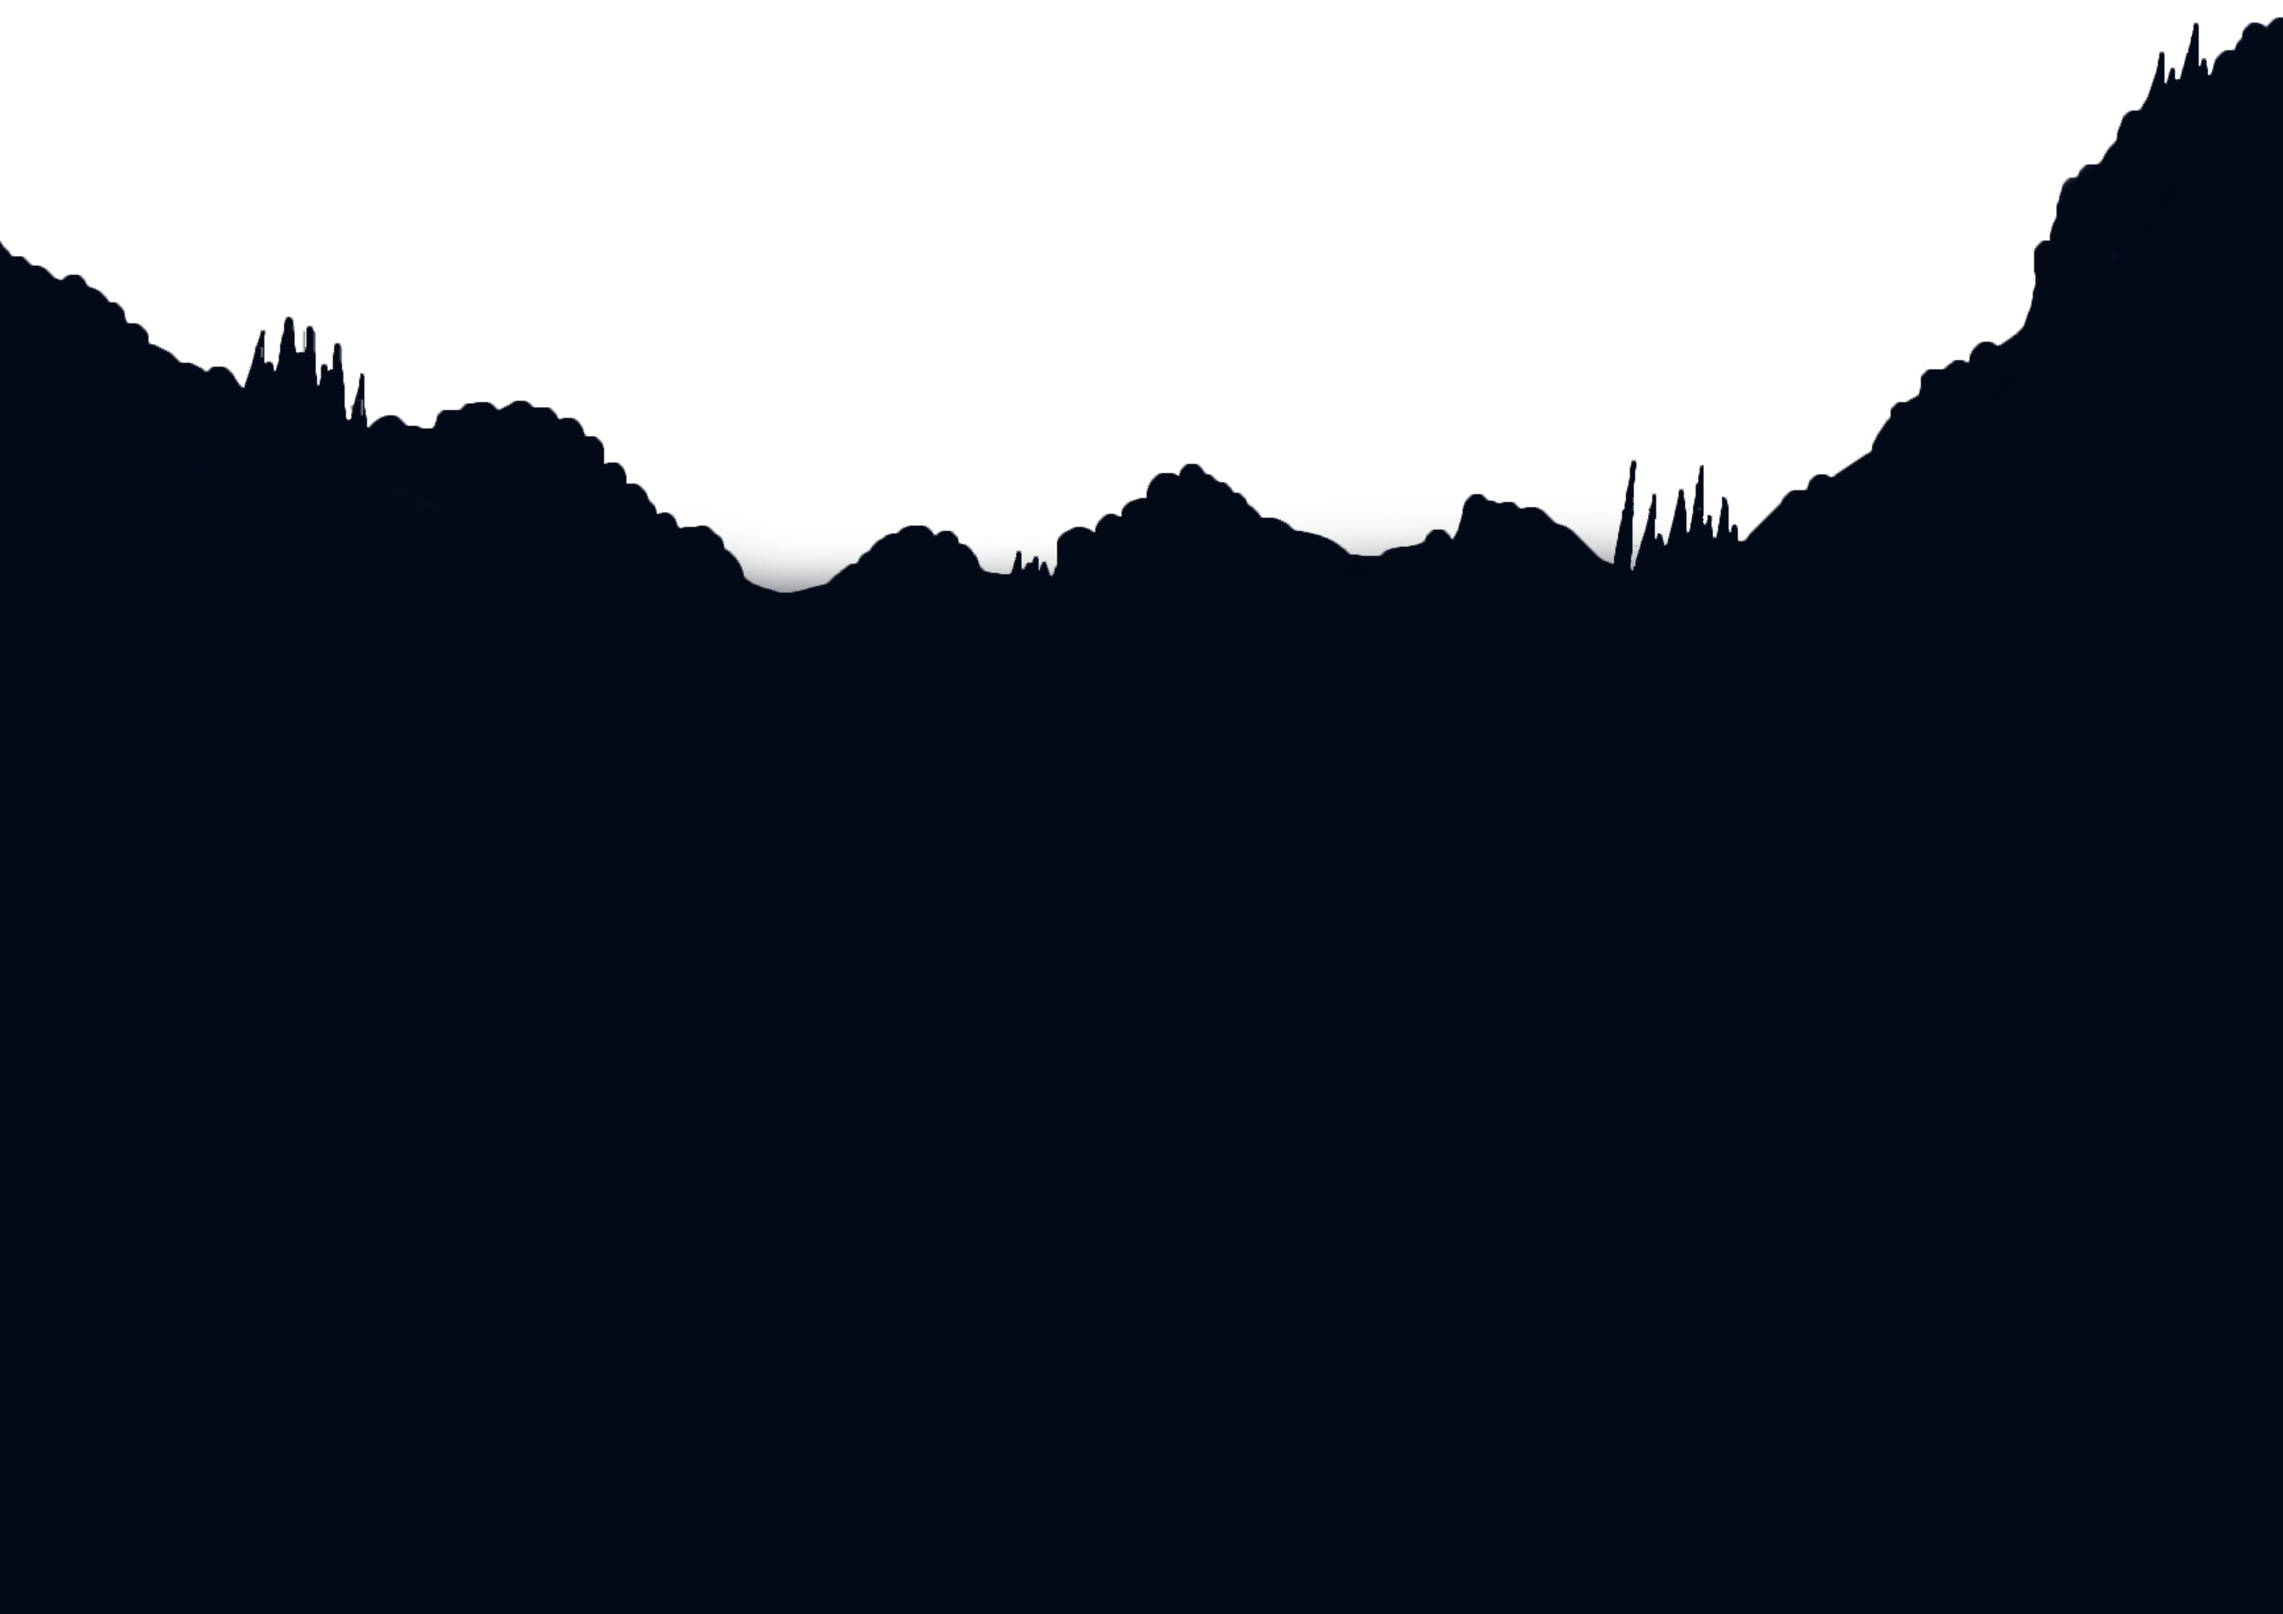
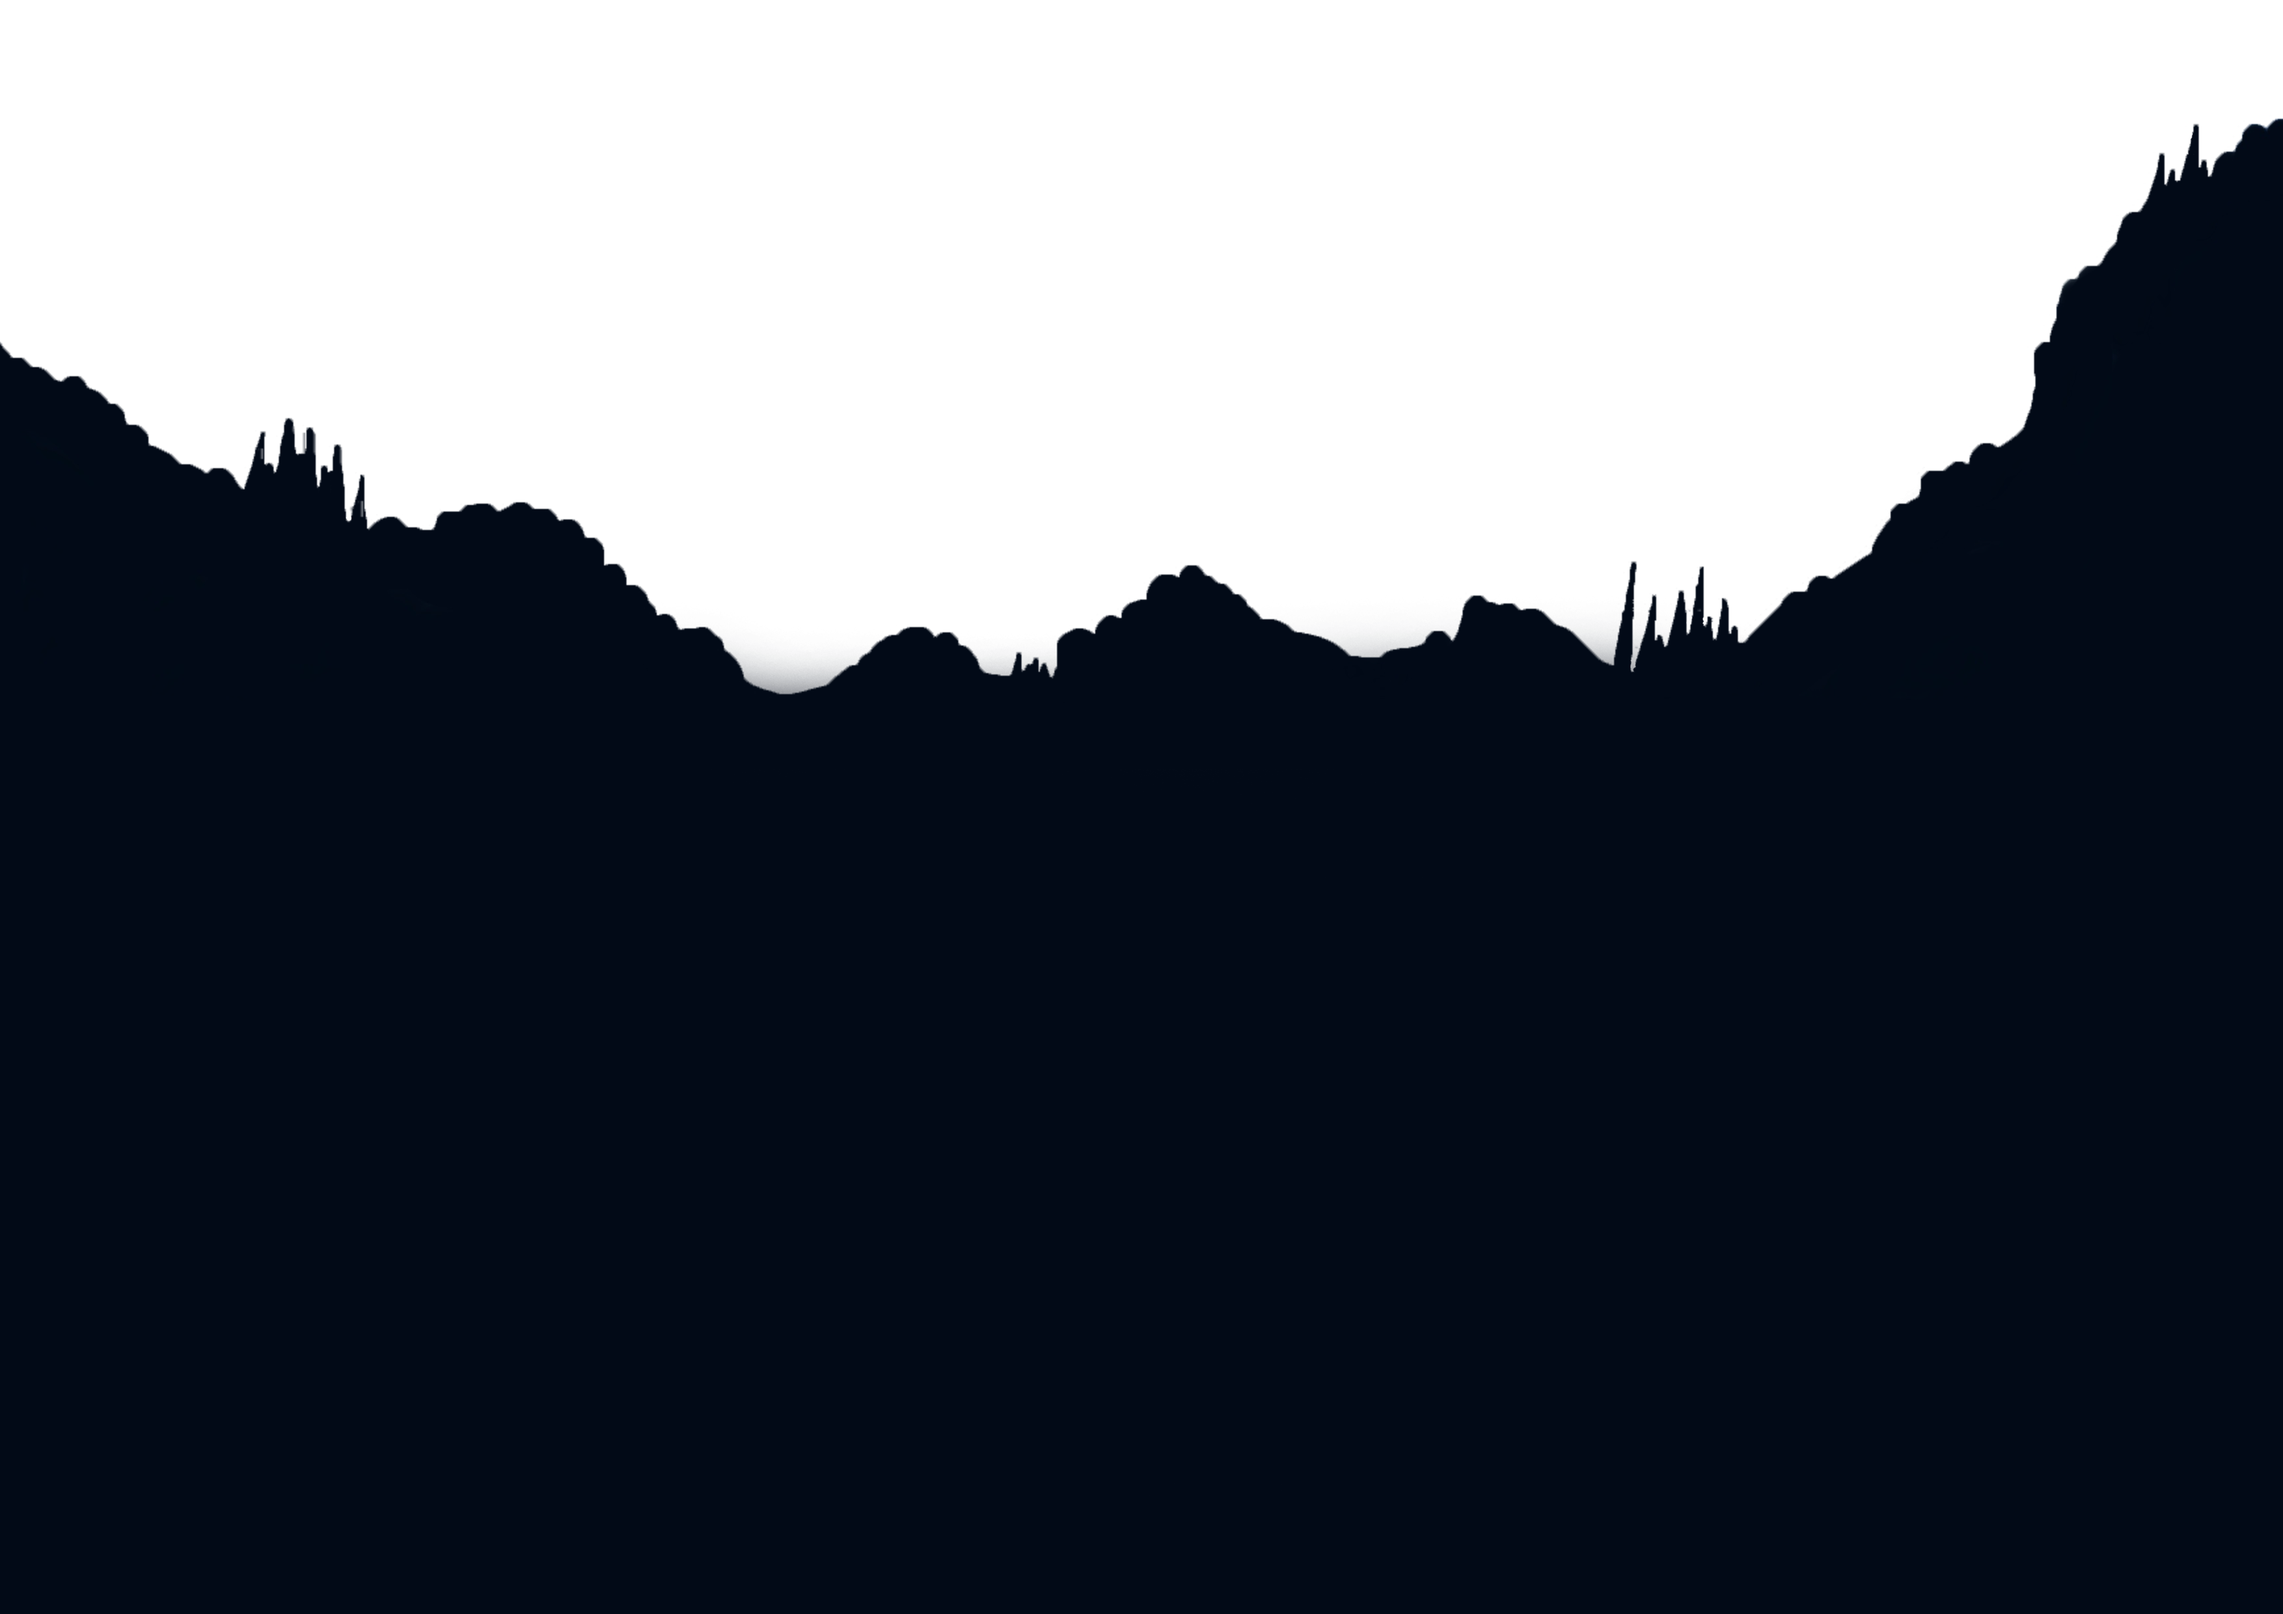
added new npm node. parallax now functional.

Changed region(s): [[0.0, 0.0, 1.0, 0.4347]]

diff --git a/portfolio-page/src/pages/Portfolio.jsx b/portfolio-page/src/pages/Portfolio.jsx
@@ -1,30 +1,30 @@
 import React from 'react'
-import { Parallax } from 'react-scroll-parallax';
+import { Parallax, ParallaxLayer } from '@react-spring/parallax'
 
 const Portfolio = () => {
 
   return (
   <>
-    <Parallax translateY={[-20, 20]}>
-        <img src="./images/6th.png" alt="" />
-    </Parallax>
-    <Parallax translateY={[-20, 20]}>
-        <img src="./images/Sun.png" alt="" />
-    </Parallax>
-    <Parallax translateY={[-20, 20]}>
-        <img src="./images/5th.png" alt="" />
-    </Parallax>
-    <Parallax translateY={[-20, 20]}>
-        <img src="./images/4th.png" alt="" />
-    </Parallax>
-    <Parallax translateY={[-20, 20]}>
-        <img src="./images/3rd.png" alt="" />
-    </Parallax>
-    <Parallax translateY={[-20, 20]}>
-        <img src="./images/2nd.png" alt="" />
-    </Parallax>
-    <Parallax translateY={[-20, 20]}>
-        <img src="./images/Bottom.png" alt="" />
+    <Parallax pages={7} className='container'>
+            <img src="../images/6th.png" alt='' className='background'/>
+        <ParallaxLayer speed={-0.5}>
+            <img src="../images/Sun.png" alt=''/>
+        </ParallaxLayer>
+        <ParallaxLayer speed={0}>
+            <img src="../images/5th.png" alt=''/>
+        </ParallaxLayer>
+        <ParallaxLayer speed={0.5}>
+            <img src="../images/4th.png" alt=''/>
+        </ParallaxLayer>
+        <ParallaxLayer speed={1}>
+            <img src="../images/3rd.png" alt=''/>
+        </ParallaxLayer>        
+        <ParallaxLayer speed={1.25}>
+            <img src="../images/2nd.png" alt=''/>
+        </ParallaxLayer>
+        <ParallaxLayer speed={1.5}>
+            <img src="../images/Bottom.png" alt='' className='bottom'/>
+        </ParallaxLayer>
     </Parallax>
   </>
   

diff --git a/portfolio-page/src/App.js b/portfolio-page/src/App.js
@@ -1,14 +1,11 @@
 import './App.css';
-import { ParallaxProvider } from 'react-scroll-parallax';
 import Portfolio from './pages/Portfolio'
 
 function App() {
   return (
-  <ParallaxProvider>
     <div>
       <Portfolio />
     </div>
-  </ParallaxProvider>
   );
 }
 

diff --git a/portfolio-page/src/App.css b/portfolio-page/src/App.css
@@ -37,7 +37,19 @@
   }
 }
 
+body {
+  background-color: #020A17;
+}
+
 img {
   width: 100%;
-  position: absolute;
+}
+
+.background {
+  position:fixed
+}
+
+.bottom {
+  position: relative;
+  top: 200px;
 }
